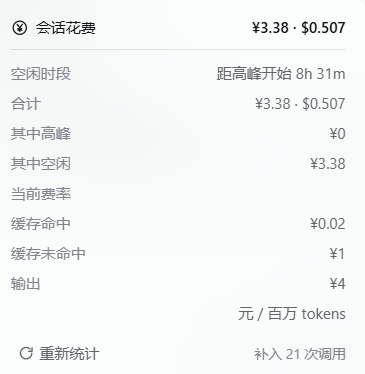
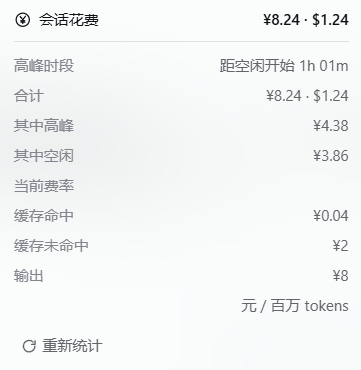
Refresh both panel screenshots
The re-shot panels are in the idle state, so they no longer carry the recount
note; the alt text and the screenshot index stop claiming a call count is on
screen.

diff --git a/assets/README.md b/assets/README.md
@@ -10,7 +10,7 @@ carousel shows them in.
 | --- | --- |
 | `pill-off-peak.png` | The composer pill in the off-peak tier: the session cost in CNY with the tier beside it, in the neutral colour. |
 | `pill-peak.png` | The same pill during peak hours: the capsule switches to the warning colour, and the tier is still spelled out in words rather than signalled by colour alone. |
-| `panel-session.png` | The detail panel for a single session: the total in CNY and USD, the current tier with a countdown, the peak / off-peak split, the rates in force, and the recount button with the number of calls it recovered. |
+| `panel-session.png` | The detail panel for a single session: the total in CNY and USD, the current tier with a countdown, the peak / off-peak split, the rates in force, and the recount button. |
 | `panel-team.png` | The same panel for an agent-team session: the total split into "of which this session" and "of which team members ×N", with the roster below and the Lead marked ★. |
 
 All four were captured in a Chinese UI; the labels follow the app's language.

diff --git a/README.md b/README.md
@@ -100,7 +100,7 @@ The composer pill in both tiers, and the detail panel it opens — the labels fo
 | --- | --- |
 | ![The composer pill in the off-peak tier: the session cost in CNY with the tier beside it, drawn in the neutral colour](assets/pill-off-peak.png) | ![The same pill during peak hours, drawn in the warning colour, with the tier spelled out beside the amount](assets/pill-peak.png) |
 
-![The detail panel: the session total in CNY and USD, the current tier with a countdown to the next switch, the peak / off-peak split, the rates in force, and the recount button with the call count it proved](assets/panel-session.png)
+![The detail panel: the session total in CNY and USD, the current tier with a countdown to the next switch, the peak / off-peak split, the rates in force, and the recount button](assets/panel-session.png)
 
 ![The same panel for an agent team: the total split into "of which this session" and "of which team members", with the roster below and the Lead marked with a star](assets/panel-team.png)
 

diff --git a/README.zh.md b/README.zh.md
@@ -100,7 +100,7 @@ Host 半边（计量、`/cost`、`session_cost`、HTTP 快照）**立即生效**
 | --- | --- |
 | ![空闲时段：胶囊显示本会话花费，时段用文字写在金额旁，整体为中性色](assets/pill-off-peak.png) | ![高峰时段：同一枚胶囊转为警示色，时段仍用文字标明，不只靠颜色](assets/pill-peak.png) |
 
-![明细面板：本会话合计（¥ 与 $）、当前时段与距下次切换的倒计时、高峰 / 空闲分项、当前费率，以及「重新统计」按钮与它统计出的调用数](assets/panel-session.png)
+![明细面板：本会话合计（¥ 与 $）、当前时段与距下次切换的倒计时、高峰 / 空闲分项、当前费率，以及「重新统计」按钮](assets/panel-session.png)
 
 ![智能体团队的面板：总额拆成「其中本会话」与「其中团队成员 ×N」，下面是团队名单，Lead 前置 ★](assets/panel-team.png)
 
